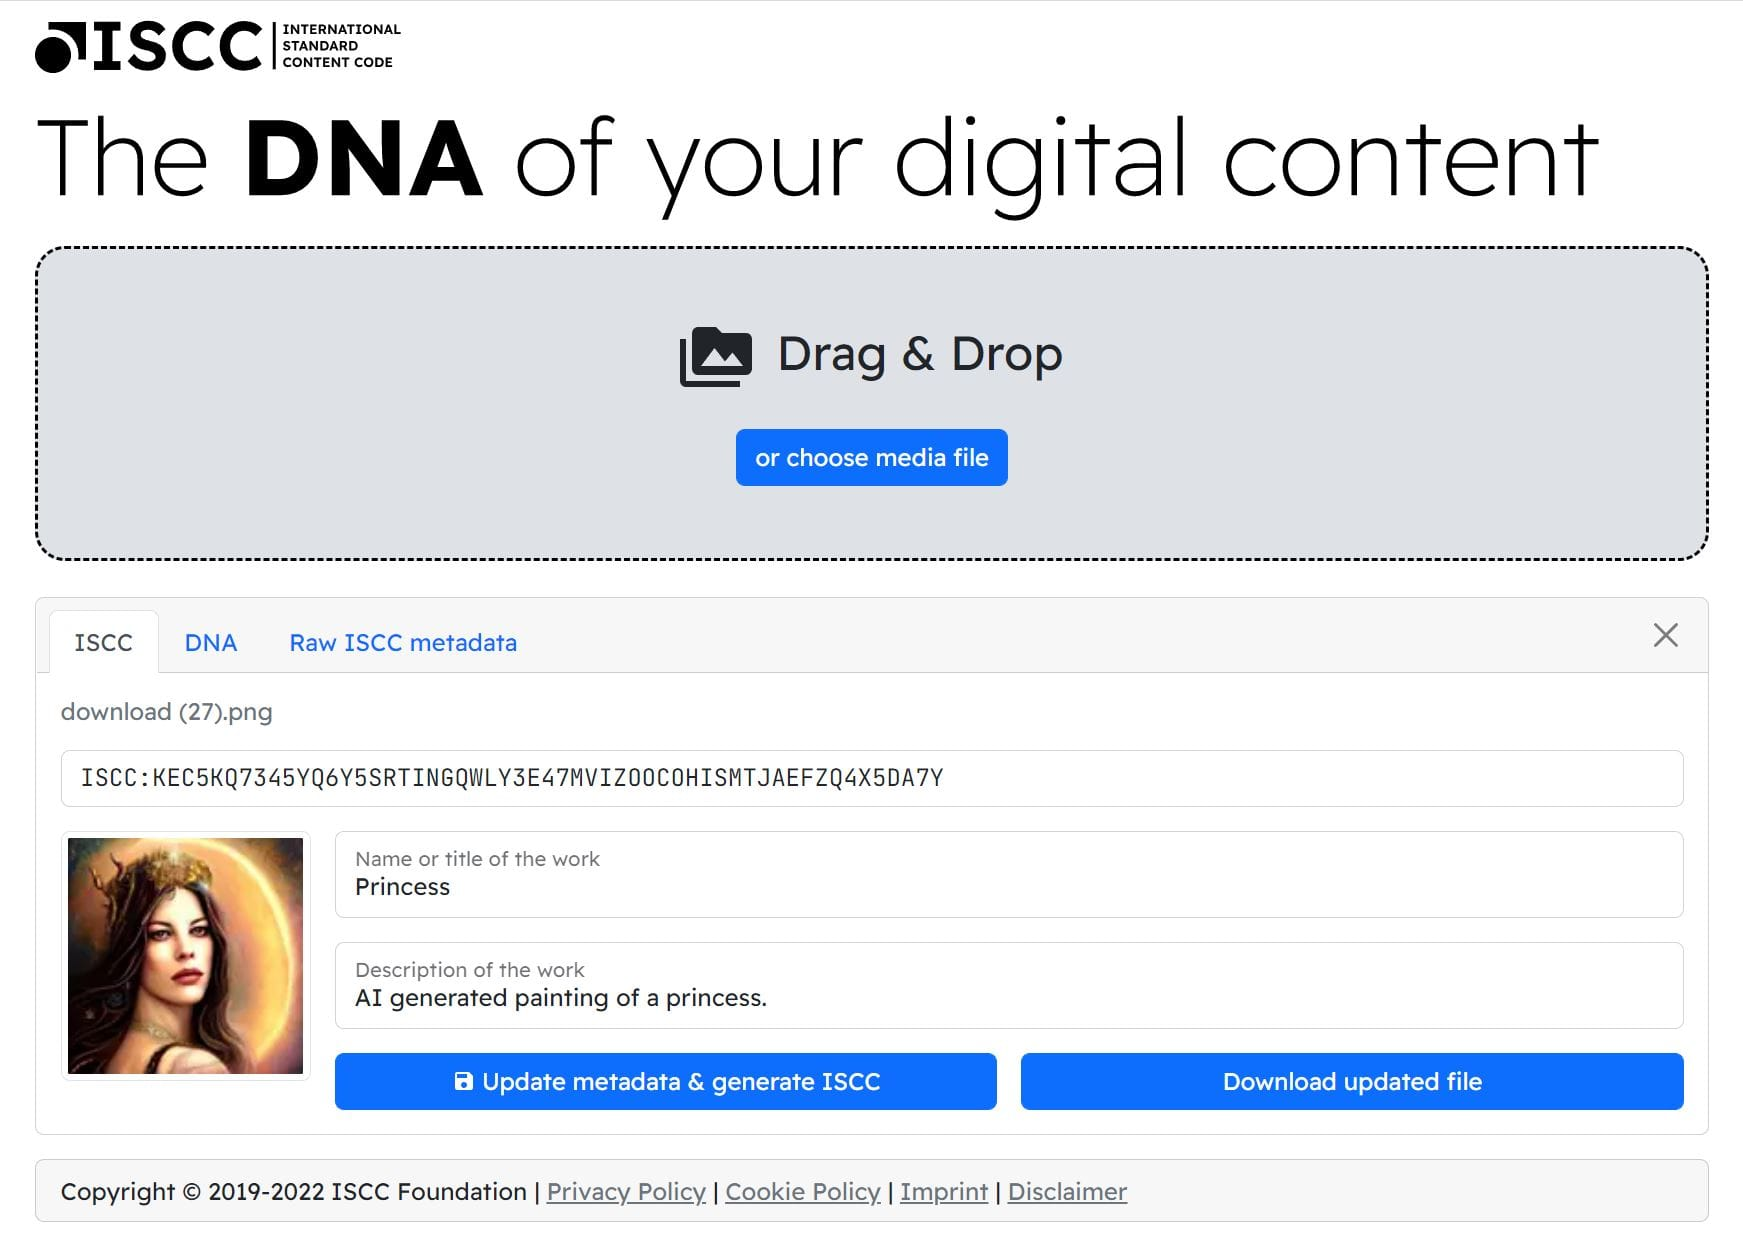
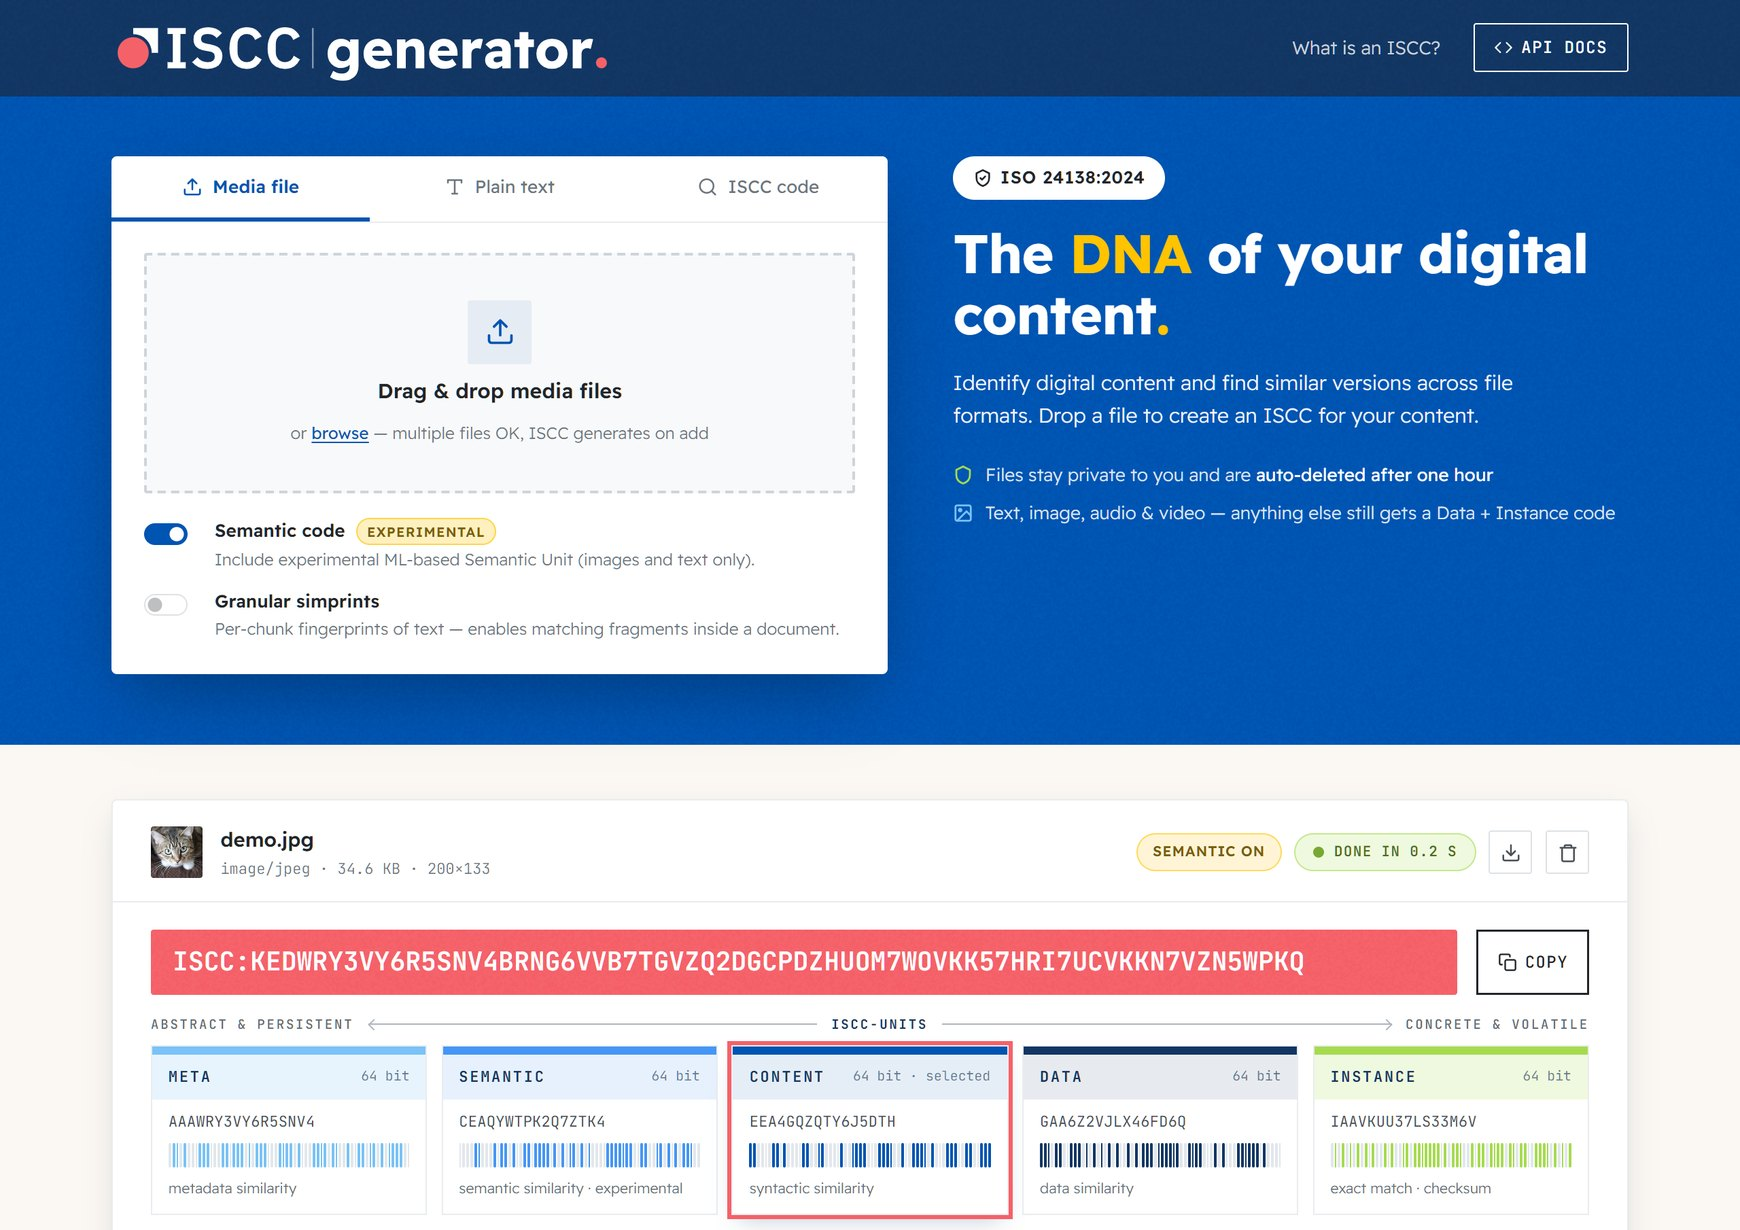
docs(readme): show the current frontend and API reference, fix outdated details
- Screenshots of the v0.4.0 demo frontend (image result with its ISCC-UNITs) and the
  brand-themed API reference, replacing the 2022 ones; alt text on both.
- Demo frontend description covers pasted text, decoding existing ISCC-CODEs and the
  bit-level comparison.
- Deployment: the guide runs the service behind a TLS-terminating reverse proxy; it no
  longer configures TLS itself.
- Development: local URLs on separate lines, shell fence, Node.js version from
  .tool-versions, "Special thanks" as a section heading.

Closes #61

diff --git a/README.md b/README.md
@@ -26,7 +26,7 @@ see the [deployment guide](https://web.iscc.codes/howto/deployment/) for GPU req
 
 ## Overview
 
-<img align="left" width="200" src="docs/assets/iscc-web-rest-api.jpg?raw=true">
+<img align="left" width="200" src="docs/assets/iscc-web-rest-api.jpg?raw=true" alt="API reference page of iscc-web">
 
 **REST API**
 
@@ -34,7 +34,7 @@ The microservice provides a REST API for generating ISCCs. The endpoints support
 upload/download, metadata extraction/embedding and ISCC processing.<br>
 
 Files uploaded for processing are automatically deleted after a configurable timeout.
-An interactive API documentation is available at [/docs](https://web.iscc.io/docs). `GET /health`
+Interactive API documentation is available at [/docs](https://web.iscc.io/docs). `GET /health`
 (at the site root) is a readiness probe for monitors and the Docker `HEALTHCHECK`: it reports
 whether the semantic-code ONNX models are loaded, which execution provider (GPU or CPU) they run
 on, and the image version and revision.<br><br>
@@ -55,12 +55,13 @@ release):
     [iscc-search](https://github.com/iscc/iscc-search)'s local simprint generation, so search
     services can delegate text processing to this service.
 
-<img align="left" width="200" src="docs/assets/iscc-web-vue-frontend.jpg?raw=true">
+<img align="left" width="200" src="docs/assets/iscc-web-vue-frontend.jpg?raw=true" alt="Demo frontend of iscc-web showing the ISCC-CODE of an image">
 
 **Demo Frontend**
 
-The service also hosts a [Vue.js](https://vuejs.org/) based demo frontend that shows how to
-upload media files, generate ISCCs, embed metadata, and compare ISCCs.<br><br><br>
+The service also hosts a [Vue.js](https://vuejs.org/) based demo frontend that generates ISCCs
+for media files and pasted text, decodes existing ISCC-CODEs unit by unit, embeds metadata, and
+compares two ISCCs bit by bit.<br><br><br>
 
 ## Configuration
 
@@ -70,8 +71,8 @@ processing defaults (`ISCC_SDK_*`, `ISCC_SCT_*`, `ISCC_SCI_*`). See the
 
 ## Deployment
 
-A docker-compose based standalone deployment with automatic SSL/TLS configuration is documented
-in the [deployment guide](https://web.iscc.codes/howto/deployment/).
+A Docker Compose deployment behind a reverse proxy that terminates TLS is documented in the
+[deployment guide](https://web.iscc.codes/howto/deployment/).
 
 ## Development
 
@@ -88,19 +89,19 @@ uv sync
 uv run iscc-web
 ```
 
-Access the app at http://localhost:8000
-API documentation is at /docs
+Open the demo frontend at http://localhost:8000 and the API documentation at
+http://localhost:8000/docs.
 
 Before committing any changes run code formatting and tests with:
 
-```
+```shell
 uv run poe all
 ```
 
 ### Frontend
 
-Install Node.js with [asdf](https://asdf-vm.com/) or see [.tool-versions](.tool-versions) for the correct version. Packages are managed by
-[pnpm](https://pnpm.io/installation).
+Install the Node.js version listed in [.tool-versions](.tool-versions), for example with
+[asdf](https://asdf-vm.com/). Packages are managed by [pnpm](https://pnpm.io/installation).
 
 Run `pnpm install` to install the frontend dependencies.
 
@@ -117,7 +118,7 @@ locally with `uv run poe docs-serve`, build it with `uv run poe docs-build` and 
 `uv run poe docs-check`. See the
 [contribution guide](https://web.iscc.codes/development/contributing/) for details.
 
-# Special thanks to the developers of
+## Special thanks to the developers of
 
 - [BlackSheep](https://github.com/Neoteroi/BlackSheep)
 - [Schemathesis](https://github.com/schemathesis/schemathesis)
